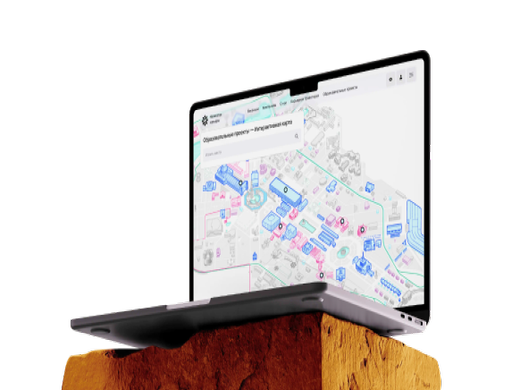
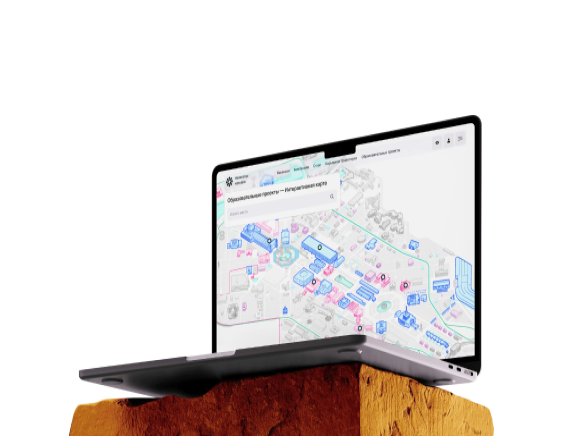
Навигатор: мокап ноутбука из макета, вписан в плитку; логотип Figma в серой подложке

Changed region(s): [[0.1231, 0.1231, 0.8615, 1.0], [0.3385, 0.9538, 0.3692, 1.0], [0.8, 0.9846, 0.8308, 1.0]]

diff --git a/case.css b/case.css
@@ -705,5 +705,7 @@ button { font: inherit; color: inherit; background: none; border: 0; padding: 0;
 .c-fields { padding-left: 0; gap: 4px; }
 .c-tile-soft { background: var(--muted-bg); }
 .c-tile-figma { min-height: 118px; gap: 24px; }
-.c-tile-figma > div:first-child { display: flex; flex-direction: column; gap: 4px; padding-right: 48px; }
-.c-tile-figma__logo { position: absolute; top: 21px; right: 21px; width: 30px; height: 30px; }
+.c-tile-figma > div:first-child { display: flex; flex-direction: column; gap: 4px; padding-right: 60px; }
+.c-tile-figma__logo { position: absolute; top: 12px; right: 12px; width: 48px; height: 48px; padding: 9px; border-radius: 50%; background: var(--muted-bg); }
+/* мокап ноутбука: на всю высоту плитки, прижат к низу, верх с пустым полем обрезается */
+.c-tile-soft .tile__img { width: 218px; height: 144px; object-fit: cover; object-position: center bottom; }
